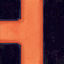
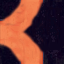
border and line changing.

Changed region(s): [[0.3438, 0.0, 0.7188, 0.8438], [0.0, 0.625, 0.375, 1.0], [0.0, 0.0, 0.3438, 0.4062]]

diff --git a/Assets/Scripts/TileType.cs b/Assets/Scripts/TileType.cs
@@ -10,6 +10,7 @@ public class TileType {
 	public readonly string Id;
 	private Sprite _Image;
 	public TileType AfterChange;
+	public readonly Sprite ModificatorImage;
 
 	public Sprite Image {
 		get { return _Image; }
@@ -22,12 +23,12 @@ public class TileType {
 	public static readonly TileType Cross = new TileType("Cross", SpriteManager.TileCross,
 		new Dictionary<Direction, Direction> { { Direction.E, Direction.W }, { Direction.W, Direction.E }, { Direction.S, Direction.N }, { Direction.N, Direction.S } });
 	public static readonly TileType SideUp = new TileType("SideUp", SpriteManager.TileSide, 
-		new Dictionary<Direction, Direction> { { Direction.W, Direction.N }, { Direction.N, Direction.W }, { Direction.S, Direction.W } });
+		new Dictionary<Direction, Direction> { { Direction.W, Direction.N }, { Direction.N, Direction.W }, { Direction.S, Direction.W } }, SpriteManager.ArrowUp);
 	public static readonly TileType SideDown = new TileType("SideDown", SpriteManager.TileSide,
-		new Dictionary<Direction, Direction> { { Direction.W, Direction.S }, { Direction.N, Direction.W }, { Direction.S, Direction.W } });
-	public static readonly TileType SlantUp = new TileType("SlantUp", SpriteManager.TileSlant,
+		new Dictionary<Direction, Direction> { { Direction.W, Direction.S }, { Direction.N, Direction.W }, { Direction.S, Direction.W } }, SpriteManager.ArrowDown);
+	public static readonly TileType SlantUp = new TileType("SlantUp", SpriteManager.TileSlantUp,
 		new Dictionary<Direction, Direction> { { Direction.N, Direction.W }, { Direction.W, Direction.N }, { Direction.S, Direction.E }, { Direction.E, Direction.S } });
-	public static readonly TileType SlantDown = new TileType("SlantDown", SpriteManager.TileSlant,
+	public static readonly TileType SlantDown = new TileType("SlantDown", SpriteManager.TileSlantDown,
 		new Dictionary<Direction, Direction> { { Direction.W, Direction.S }, { Direction.S, Direction.W }, { Direction.N, Direction.E }, { Direction.E, Direction.N } });
 
 	static TileType() {
@@ -37,14 +38,11 @@ public class TileType {
 		SlantDown.AfterChange = SlantUp;
 	}
 
-	private TileType(string id, Sprite image,  Dictionary<Direction, Direction> path) {
+	private TileType(string id, Sprite image,  Dictionary<Direction, Direction> path, Sprite modificatiorImage=null) {
 		Id = id;
 		_Image = image;
 		Paths = path;
-	}
-
-	internal static TileType GetRandom() {
-		return FromJsonInt(UnityEngine.Random.Range(0, 2));
+		ModificatorImage = modificatiorImage;
 	}
 
 	internal static TileType FromJsonInt(int p) {

diff --git a/Assets/Scripts/Tile.cs b/Assets/Scripts/Tile.cs
@@ -7,7 +7,7 @@ using UnityEngine.UI;
 
 public class Tile : MonoBehaviour{
 
-	public GameObject GameObjectImage;
+	public GameObject GameObjectImage, GameObjectImageArrow, GameObjectImageBorder;
 	private TileTemplate TileTemplate;
 
 	public void Prepare(TileTemplate tt) {
@@ -19,6 +19,17 @@ public class Tile : MonoBehaviour{
 		GameObjectImage.GetComponent<Image>().sprite = TileTemplate.TileType.Image;
 		GameObjectImage.transform.rotation = new Quaternion();
 		GameObjectImage.transform.Rotate(0, 0, TileTemplate.Rotation.Value * -90);
+		
+		GameObjectImageBorder.GetComponent<Image>().color = Color.green;
+		GameObjectImageBorder.SetActive(TileTemplate.TileType.AfterChange != null);
+		
+		
+		GameObjectImageArrow.SetActive(TileTemplate.TileType.ModificatorImage != null);
+		if (TileTemplate.TileType.ModificatorImage != null) {
+			GameObjectImageArrow.GetComponent<Image>().sprite = TileTemplate.TileType.ModificatorImage;
+			GameObjectImageArrow.transform.rotation = new Quaternion();
+			GameObjectImageArrow.transform.Rotate(0, 0, TileTemplate.Rotation.Value * -90);
+		}
 	}
 
 	public void ChangeVersion(){

diff --git a/Assets/Scripts/SpriteManager.cs b/Assets/Scripts/SpriteManager.cs
@@ -4,7 +4,7 @@ using System.Collections.Generic;
 
 public class SpriteManager : MonoBehaviour {
 
-	public static Sprite TileEdge, TileCross, TileSide, TileSlant, ArrowUp, ArrowDown;
+	public static Sprite TileEdge, TileCross, TileSide, TileSlantUp, TileSlantDown, ArrowUp, ArrowDown;
 	private static List<Sprite> People = new List<Sprite>();
 
 	
@@ -13,7 +13,8 @@ public class SpriteManager : MonoBehaviour {
 		TileEdge = Resources.Load<Sprite>("Images/tileEdge");
 		TileCross = Resources.Load<Sprite>("Images/tileCross");
 		TileSide = Resources.Load<Sprite>("Images/tileSide");
-		TileSlant = Resources.Load<Sprite>("Images/tileSlant");
+		TileSlantUp = Resources.Load<Sprite>("Images/tileSlant");
+		TileSlantDown = Resources.Load<Sprite>("Images/tileSlantDown");
 		ArrowUp = Resources.Load<Sprite>("Images/arrowUp");
 		ArrowDown = Resources.Load<Sprite>("Images/arrowDown");
 

diff --git a/Assets/Scripts/Person.cs b/Assets/Scripts/Person.cs
@@ -41,6 +41,10 @@ public class Person : MonoBehaviour {
 
 	void Update() {
 		Progress += 0.99f * Time.deltaTime;
+		if (Progress >= 1) {
+			MoveToNext();
+			StartMe();
+		}
 
 		Vector2 offset = StartDir.Offset() + (DestDir.Offset() - StartDir.Offset())*Progress;
 		if (offset.x < 0) {
@@ -51,12 +55,7 @@ public class Person : MonoBehaviour {
 		}
 		GetComponent<InGamePos>().UpdatePos(X + offset.x, Y + offset.y - 0.1f); //-0.1f to make an illusion that he is going on path
 
-		if (Progress >= 1) {
-			Debug.Log("I was on " + X + ", " + Y + ", direction: " + DestDir + " now moving on to next;");
-			MoveToNext();
-			Debug.Log("Moved to " + X + ", " + Y + ", start: " + StartDir);
-			StartMe();
-		}
+		
 		
 	}
 }
